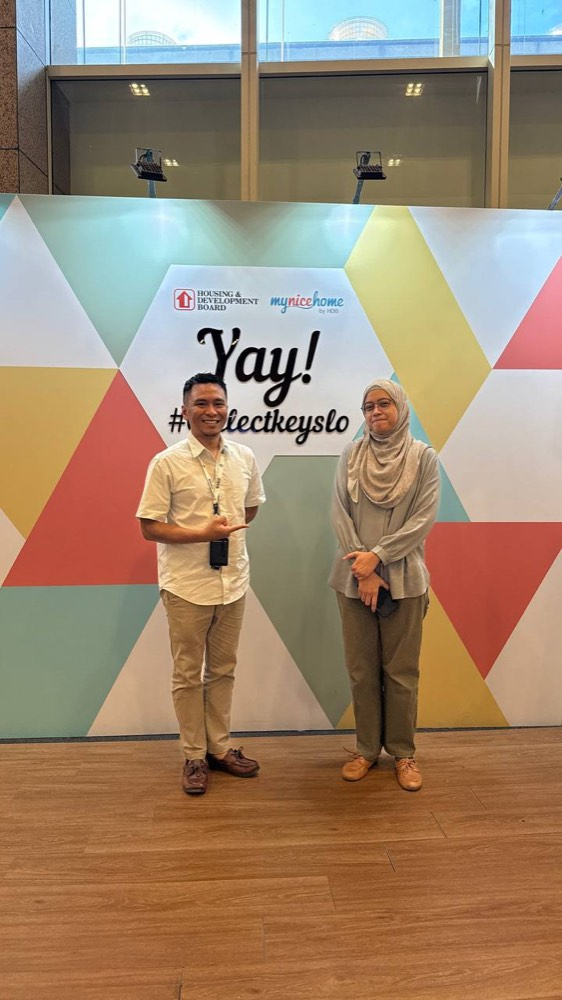
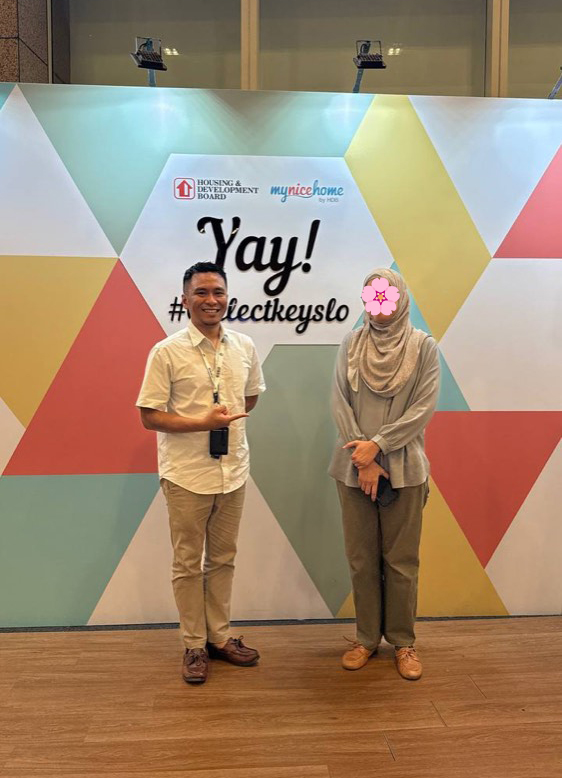
Infinite carousel loop, add Rajan review, faster desktop awards ticker
- Testimonial carousel loops seamlessly (clone technique) instead of
  reverse-resetting at the end; preserves dots, counter, height-fit,
  excerpt, swipe, autoplay, reduced-motion
- Add Rajan Giin Jyh review (mapped to rajan.jpg), placed in the middle
  (5th of 8)
- Awards ticker ~115px/sec on desktop (62 on mobile)

diff --git a/script.js b/script.js
@@ -48,6 +48,17 @@ const REVIEWS = [
     ],
   },
   {
+    name: "Rajan Giin Jyh",
+    role: "Buyer",
+    date: "07 June 2025",
+    initials: "RG",
+    photo: "assets/customers/rajan.jpg",
+    text: [
+      "News headline — 10 stars rating!! His knowledge, his transparency, and he responds fast as thunder. I had an amazing journey from the viewing request all the way to handover. Nikmat is always ahead of every detail, and that is what made engaging him so satisfying.",
+      "He shares all the useful information openly over social media, which helped me get up to speed with everything I needed as a kick start. People these days say don't trust what you see on social media — so I decided to meet Nikmat in person, and what he shares online is exactly what you get in the live meeting. Trustworthy, superb agent — 10 stars.",
+    ],
+  },
+  {
     name: "Bella Ariffin",
     role: "Buyer",
     date: "03 March 2025",
@@ -116,57 +127,140 @@ track.innerHTML = REVIEWS.map((r) => {
     </div></div></article>`;
 }).join("");
 
-const slides = [...track.children],
-  dots = document.getElementById("dots");
-let i = 0,
-  timer = null;
-document.getElementById("tot").textContent = String(
-  slides.length,
-).padStart(2, "0");
+const slides = [...track.children];
+const dots = document.getElementById("dots");
+const N = slides.length;
+const viewport = track.parentElement;
+const car = document.getElementById("carousel");
+const reduce = window.matchMedia("(prefers-reduced-motion: reduce)").matches;
+let pos = 1,
+  real = 0,
+  timer = null,
+  loopT = null,
+  xslides = slides;
+document.getElementById("tot").textContent = String(N).padStart(2, "0");
+
+// dots
 slides.forEach((_, n) => {
   const b = document.createElement("button");
   b.className = "dot";
   b.setAttribute("role", "tab");
   b.setAttribute("aria-label", "Review " + (n + 1));
   b.addEventListener("click", () => {
-    go(n);
+    goTo(n);
     stop();
   });
   dots.appendChild(b);
 });
-function go(n) {
-  i = (n + slides.length) % slides.length;
-  track.style.transform = `translate3d(${-i * 100}%,0,0)`;
-  [...dots.children].forEach((d, k) =>
-    d.classList.toggle("is-on", k === i),
-  );
-  slides.forEach((s, k) => s.setAttribute("aria-hidden", k !== i));
-  document.getElementById("cur").textContent = String(i + 1).padStart(
-    2,
-    "0",
-  );
+
+// clamp + read-more (real slides only; clones inherit the state)
+function syncClamp() {
+  slides.forEach((slide) => {
+    const body = slide.querySelector(".rev-body");
+    if (!body || body.dataset.expanded === "1") return;
+    body.classList.add("clamp");
+    const btn = body.nextElementSibling;
+    if (body.scrollHeight - 1 > body.clientHeight) {
+      btn.hidden = false;
+      btn.textContent = "Read more";
+    } else {
+      body.classList.remove("clamp");
+      btn.hidden = true;
+    }
+  });
+}
+slides.forEach((slide) => {
+  const btn = slide.querySelector(".rev-more");
+  if (!btn) return;
+  btn.addEventListener("click", () => {
+    const body = btn.previousElementSibling;
+    const expanded = !body.classList.toggle("clamp");
+    body.dataset.expanded = expanded ? "1" : "";
+    btn.textContent = expanded ? "Read less" : "Read more";
+    setH();
+  });
+});
+syncClamp();
+
+// clones for seamless infinite loop: [ lastClone, s0..sN-1, firstClone ]
+const firstClone = slides[0].cloneNode(true);
+const lastClone = slides[N - 1].cloneNode(true);
+[firstClone, lastClone].forEach((c) => c.setAttribute("aria-hidden", "true"));
+track.insertBefore(lastClone, slides[0]);
+track.appendChild(firstClone);
+xslides = [...track.children]; // real slide k is at index k+1
+
+function place(animate) {
+  if (!animate) track.style.transition = "none";
+  track.style.transform = `translate3d(${-pos * 100}%,0,0)`;
+  if (!animate) {
+    void track.offsetWidth; // reflow so the snap is not animated
+    track.style.transition = "";
+  }
+}
+function updateUI() {
+  [...dots.children].forEach((d, k) => d.classList.toggle("is-on", k === real));
+  slides.forEach((s, k) => s.setAttribute("aria-hidden", k !== real));
+  document.getElementById("cur").textContent = String(real + 1).padStart(2, "0");
+}
+function setH() {
+  viewport.style.height = xslides[pos].offsetHeight + "px";
+}
+function normalize() {
+  if (pos === 0) {
+    pos = N;
+    place(false);
+    setH();
+  } else if (pos === N + 1) {
+    pos = 1;
+    place(false);
+    setH();
+  }
+}
+function go(dir) {
+  if (pos === 0 || pos === N + 1) normalize(); // resolve a pending loop first
+  pos += dir;
+  real = (real + dir + N) % N;
+  updateUI();
+  place(true);
+  setH();
+  if (reduce) normalize();
+  else if (pos === 0 || pos === N + 1) {
+    clearTimeout(loopT); // backup in case transitionend doesn't fire
+    loopT = setTimeout(normalize, 700);
+  }
+}
+function goTo(k) {
+  if (pos === 0 || pos === N + 1) normalize();
+  real = k;
+  pos = k + 1;
+  updateUI();
+  place(true);
   setH();
 }
 function stop() {
   clearInterval(timer);
   timer = null;
 }
+track.addEventListener("transitionend", (e) => {
+  if (e.target !== track || e.propertyName !== "transform") return;
+  normalize();
+});
 document.getElementById("next").addEventListener("click", () => {
-  go(i + 1);
+  go(1);
   stop();
 });
 document.getElementById("prev").addEventListener("click", () => {
-  go(i - 1);
+  go(-1);
   stop();
 });
-const car = document.getElementById("carousel");
 car.addEventListener("keydown", (e) => {
   if (e.key === "ArrowRight") {
-    go(i + 1);
+    go(1);
     stop();
   }
   if (e.key === "ArrowLeft") {
-    go(i - 1);
+    go(-1);
     stop();
   }
 });
@@ -184,56 +278,29 @@ car.addEventListener(
     if (x0 === null) return;
     const dx = e.changedTouches[0].clientX - x0;
     if (Math.abs(dx) > 48) {
-      go(dx < 0 ? i + 1 : i - 1);
+      go(dx < 0 ? 1 : -1);
       stop();
     }
     x0 = null;
   },
   { passive: true },
 );
-const viewport = track.parentElement;
-function setH() {
-  viewport.style.height = slides[i].offsetHeight + "px";
-}
-function syncClamp() {
-  track.querySelectorAll(".rev-body").forEach((body) => {
-    if (body.dataset.expanded === "1") return;
-    body.classList.add("clamp");
-    const btn = body.nextElementSibling;
-    if (body.scrollHeight - 1 > body.clientHeight) {
-      btn.hidden = false;
-      btn.textContent = "Read more";
-    } else {
-      body.classList.remove("clamp");
-      btn.hidden = true;
-    }
-  });
-}
-track.querySelectorAll(".rev-more").forEach((btn) => {
-  btn.addEventListener("click", () => {
-    const body = btn.previousElementSibling;
-    const expanded = !body.classList.toggle("clamp");
-    body.dataset.expanded = expanded ? "1" : "";
-    btn.textContent = expanded ? "Read less" : "Read more";
-    setH();
-  });
-});
 function refresh() {
   syncClamp();
   setH();
 }
-syncClamp();
-go(0);
+place(false);
+updateUI();
+setH();
 window.addEventListener("load", refresh);
-if (document.fonts && document.fonts.ready)
-  document.fonts.ready.then(refresh);
+if (document.fonts && document.fonts.ready) document.fonts.ready.then(refresh);
 let carRz;
 window.addEventListener("resize", () => {
   clearTimeout(carRz);
   carRz = setTimeout(refresh, 150);
 });
-if (!window.matchMedia("(prefers-reduced-motion: reduce)").matches) {
-  timer = setInterval(() => go(i + 1), 9000);
+if (!reduce) {
+  timer = setInterval(() => go(1), 9000);
   car.addEventListener("mouseenter", () => {
     if (timer) {
       clearInterval(timer);
@@ -241,7 +308,7 @@ if (!window.matchMedia("(prefers-reduced-motion: reduce)").matches) {
     }
   });
   car.addEventListener("mouseleave", () => {
-    if (timer === "p") timer = setInterval(() => go(i + 1), 9000);
+    if (timer === "p") timer = setInterval(() => go(1), 9000);
   });
 }
 
@@ -311,7 +378,7 @@ function sizeMarquee() {
     t.style.width = w * 2 + "px";
     t.style.setProperty("--shift", w + "px");
     t.style.animationDuration =
-      (w / (window.innerWidth >= 900 ? 80 : 62)).toFixed(2) + "s"; // ~80px/sec desktop, 62 mobile
+      (w / (window.innerWidth >= 900 ? 115 : 62)).toFixed(2) + "s"; // ~115px/sec desktop, 62 mobile
   });
 }
 sizeMarquee();
